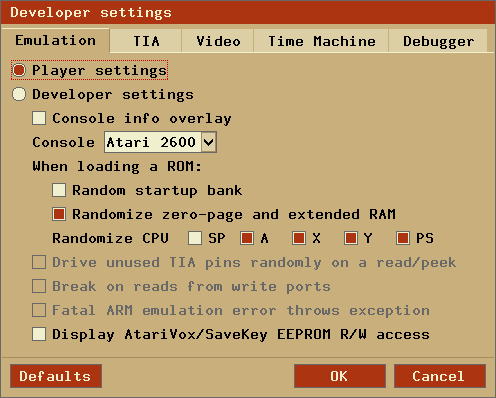
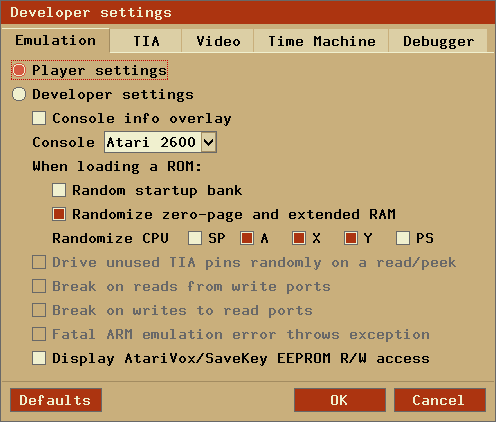
add autoslot setting to UI update doc for autoslot and write to read port breaks

Changed region(s): [[0.0, 0.0, 0.998, 0.995]]

diff --git a/docs/index.html b/docs/index.html
@@ -2617,10 +2617,20 @@
           If disabled, use the last databus value for those pins instead.</td>
     </tr><tr>
       <td><pre>-dev.rwportbreak &lt;1|0&gt;</pre></td>
-      <td>Since the 2600 has no dedicated R/W line, different addresses are used
-      for RAM read or write access. If the code reads from such a write address, this causes
-    an unwanted, semi-random write to that address.
-    When this option is enabled, such reads interrupt emulation and the debugger is entered.</td>
+      <td>Since the 2600 has no dedicated R/W line, different addresses are
+        used for RAM read or write access.</br>
+      	If the code reads from such a write address, this causes an unwanted,
+      	semi-random write to that address.</br>
+    	When this option is enabled, such reads interrupt emulation and the
+    	debugger is entered.</td>
+    </tr><tr>
+      <td><pre>-dev.wrportbreak &lt;1|0&gt;</pre></td>
+      <td>Same as above.</br>
+        If the code writes to such a read address, nothing happens. But a
+        developer should be made aware of it, because this indicates a problem
+        with the code.</br>
+    	When this option is enabled, such writes interrupt emulation and the
+    	debugger is entered.</td>
     </tr><tr>
       <td><pre>-dev.thumb.trapfatal &lt;1|0&gt;</pre></td>
       <td>When enabled, this allows the Thumb ARM emulation to
@@ -3245,6 +3255,11 @@
             <td><span style="white-space:nowrap">-dev.rwportbreak</span></td>
           </tr>
           <tr>
+            <td>Break on write to ...</td>
+            <td>A write to a read port interrupts emulation and the debugger is entered.</td>
+            <td><span style="white-space:nowrap">-dev.wrportbreak</span></td>
+          </tr>
+          <tr>
             <td>Fatal ARM emulation ...</td>
             <td>Thumb ARM emulation throws an exception and enters the debugger on fatal errors</td>
             <td><span style="white-space:nowrap">-dev.thumb.trapfatal</span></td>
@@ -3364,6 +3379,12 @@
               Automatically save no, current or all states when exiting emulation.
             </td>
             <td>-saveonexit</td>
+          </tr><tr>
+            <td>Automatically switch...</td>
+            <td>
+              Automatically switch to the next available save state slot after saving a ROM state file.
+            </td>
+            <td>-autoslot</td>
           </tr>
         </table>
       </td>
